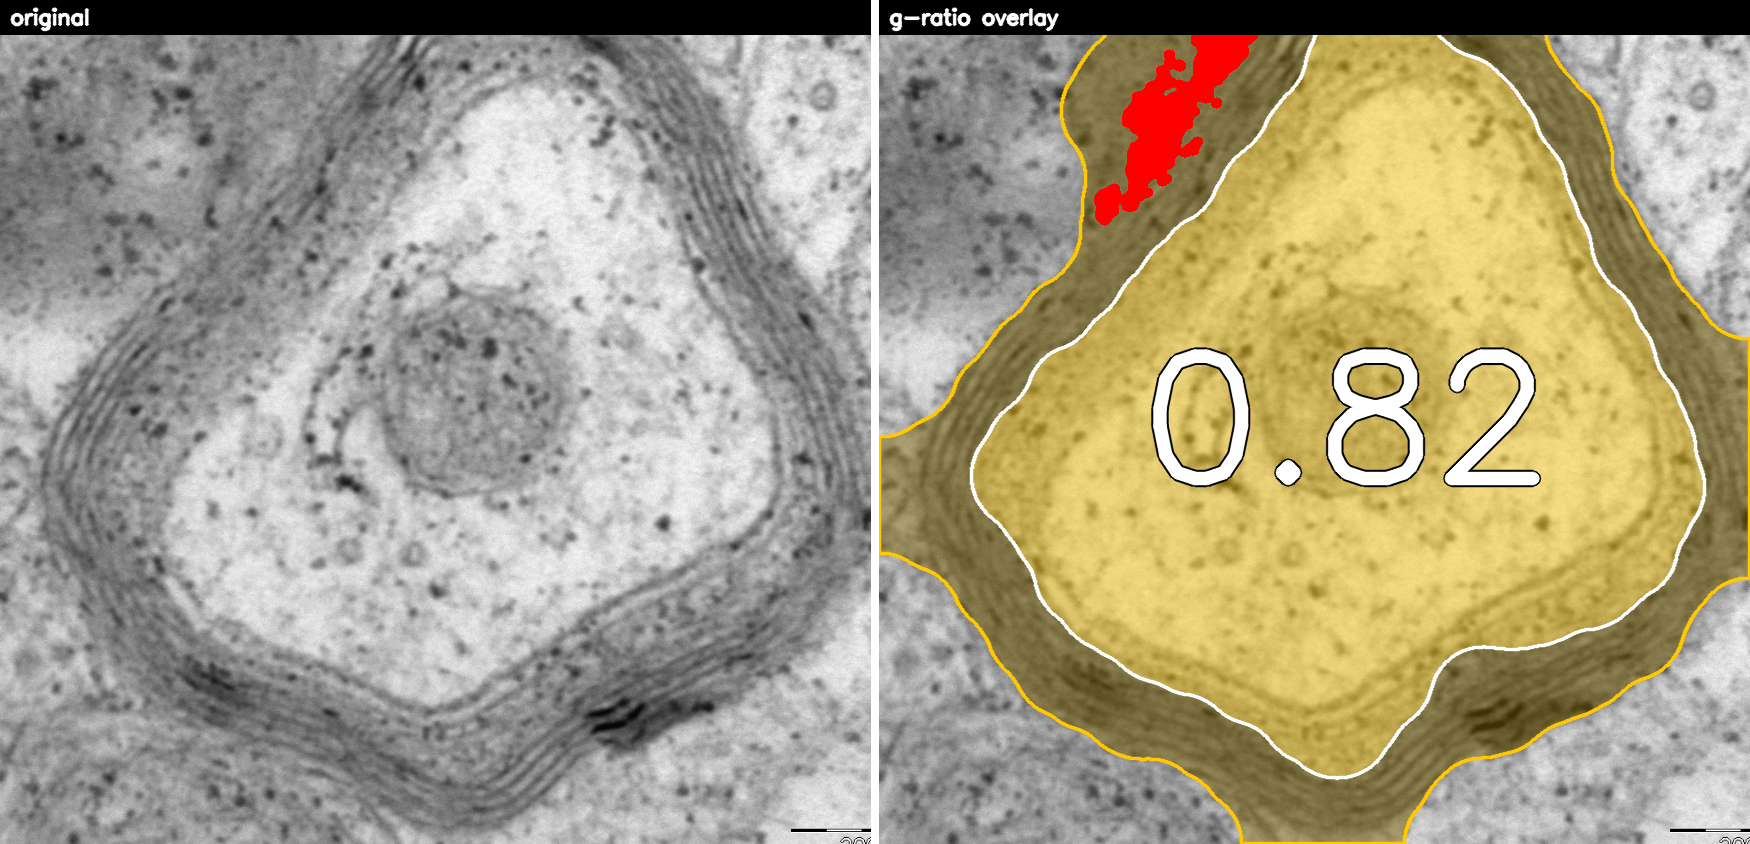
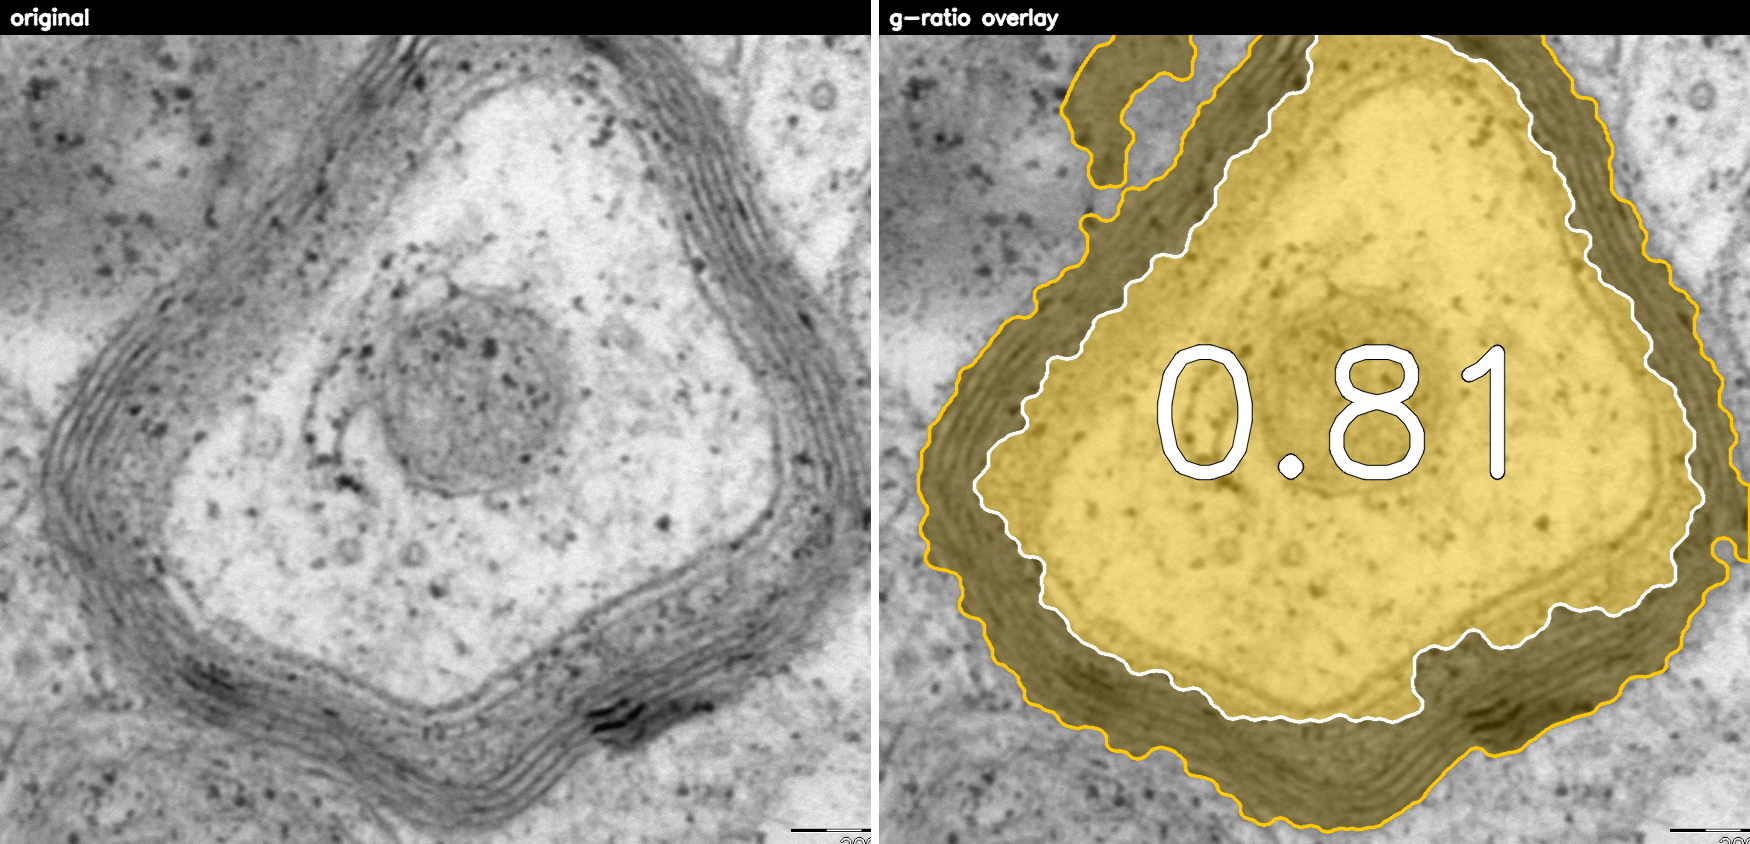
Detect edge-cropped axons; reject corner pockets; fix over-smoothed inner border
Reworks detection on the TEM samples per review feedback:
- Axon compartments are now found by sealing broken rings AND framing the image
  border, so axons cropped by the image edge (corners) are detected too, not
  just fully-enclosed ones.
- Each eroded seed is grown back to the fine myelin boundary within its own
  neighbourhood, so a broken ring cannot flood into the background.
- Raised the convex-hull solidity threshold to 0.85: real axons are highly
  convex, while non-axon corner pockets are not, which removes the false
  positives (e.g. sample_02's spurious second "axon").
- Capped the border-smoothing kernel to an absolute size so large axons
  (sample_02) are no longer distorted, fixing the inner-axon boundary.

Result on samples: s1 central+TL+BR, s2 single axon (correct), s3 four axons.
Still missing a dim bottom-left (s1) and a heavily-cropped top-right (s3).
Detection still assumes dark myelin (TEM); inverted-contrast handling is noted.

Claude-Session: https://claude.ai/code/session_01W5a7a19gkPv15EqygeEHmL

diff --git a/gratio/pipeline.py b/gratio/pipeline.py
@@ -33,14 +33,20 @@ Pipeline
 --------
 1. grayscale + bilateral filter (edge-preserving denoise)
 2. myelin mask = darkest pixels (percentile threshold); remove speckle
-3. fiber region = myelin closed enough to seal broken rings, then hole-filled;
-   isolates each axon's bright body from background even when the ring is broken
-4. axon bodies = bright bodies inside fibers passing area / solidity / brightness
-5. myelin = dark band touching the axon within a thickness cap; shared band split
-   by nearest axon
+3. seal broken rings (morphological close) and frame the image border, so axon
+   compartments -- including ones cropped by the image edge -- are isolated from
+   the background by the surrounding myelin
+4. axon bodies = compartments passing area / convex-hull solidity / brightness
+   (solidity rejects non-axon corner pockets, which are far less convex)
+5. myelin = dark band touching the axon within a thickness cap; a band shared by
+   touching axons is split by nearest axon
 6. smooth the axon body and the (axon | myelin) region into roughly-closed shapes
+   (smoothing kernel capped so large axons are not distorted)
 7. bubbles = significant bright holes in the smoothed annulus -> excluded
 8. g per axon from the area formula above
+
+Note: steps 2-4 currently assume myelin is darker than the axoplasm (true for
+these TEM samples). Inverted-contrast (e.g. SEM) data needs a polarity step.
 """
 from __future__ import annotations
 import cv2
@@ -56,11 +62,12 @@ DEFAULTS = dict(
     myelin_close=11,          # close thin inter-lamellar gaps (keeps large gaps open)
     min_axon_frac=0.004,      # min axon-body area as a fraction of the image
     max_axon_frac=0.60,       # max axon-body area as a fraction of the image
-    min_solidity=0.75,        # reject leaky / wrap-around bodies (convex-hull based)
+    min_solidity=0.85,        # reject corner pockets / leaky bodies (real axons are convex)
     bright_margin=0,          # axon-body mean intensity must exceed median(image)+margin
     touch_dilate=5,           # myelin must touch the axon within this many px
     myelin_band=0.55,         # myelin thickness cap as a fraction of axon radius
-    smooth_frac=0.33,         # border smoothing kernel as a fraction of axon radius
+    smooth_frac=0.15,         # border smoothing kernel as a fraction of axon radius
+    smooth_max_px=21,         # ...capped to this absolute size (avoid distorting big axons)
     bubble_min_frac=0.02,     # a hole counts as a bubble if >= this fraction of the axon
     bubble_min_px=250,        # ...and at least this many pixels
 )
@@ -109,33 +116,46 @@ def segment(gray: np.ndarray, **overrides) -> dict:
     myel = keep[lab].astype(np.uint8)
 
     kf = cv2.getStructuringElement(cv2.MORPH_ELLIPSE, (P['close_fiber'],) * 2)
-    fiber = binary_fill_holes(cv2.morphologyEx(myel, cv2.MORPH_CLOSE, kf).astype(bool))
+    mc = cv2.morphologyEx(myel, cv2.MORPH_CLOSE, kf)          # sealed myelin: separates axons (incl. broken central ring)
+    # treat the image border as a wall, so edge-cropped axons get enclosed too
+    framed = mc.copy()
+    framed[0, :] = framed[-1, :] = framed[:, 0] = framed[:, -1] = 1
+    enclosed = binary_fill_holes(framed.astype(bool))
     km = cv2.getStructuringElement(cv2.MORPH_ELLIPSE, (P['myelin_close'],) * 2)
-    myelin_mat = (cv2.morphologyEx(myel, cv2.MORPH_CLOSE, km) > 0) & fiber
-    bright = fiber & ~myelin_mat
+    myelin_mat = cv2.morphologyEx(myel, cv2.MORPH_CLOSE, km) > 0
 
+    # candidate axon compartments = regions separated by the sealed myelin
+    sep = enclosed & ~mc.astype(bool)
     minA, maxA = P['min_axon_frac'] * H * W, P['max_axon_frac'] * H * W
     bright_thr = np.median(gf) + P['bright_margin']
-    blab, nb = cc_label(bright)
+    slab, ns = cc_label(sep)
     axon_lbl = np.zeros((H, W), np.int32)
     cands = []
     aid = 1
-    for c in range(1, nb + 1):
-        comp = blab == c
-        A = int(comp.sum())
+    for c in range(1, ns + 1):
+        seed = slab == c
+        if seed.sum() < minA * 0.4:               # eroded seed; relaxed floor
+            continue
+        # grow the eroded seed out to the fine myelin boundary, but keep it within
+        # the seed's neighbourhood so a broken ring can't flood the background
+        terr = cv2.dilate(seed.astype(np.uint8), kf) > 0
+        glab, _ = cc_label((~myelin_mat) & terr)
+        cy0, cx0 = np.argwhere(seed).mean(0)
+        sid = glab[int(round(cy0)), int(round(cx0))]
+        body = binary_fill_holes(glab == sid) if sid > 0 else binary_fill_holes(seed)
+        A = int(body.sum())
         if not (minA <= A <= maxA):
             continue
-        cnt = max(cv2.findContours(comp.astype(np.uint8), cv2.RETR_EXTERNAL,
+        cnt = max(cv2.findContours(body.astype(np.uint8), cv2.RETR_EXTERNAL,
                                    cv2.CHAIN_APPROX_SIMPLE)[0], key=cv2.contourArea)
         hull = cv2.contourArea(cv2.convexHull(cnt))
         sol = A / hull if hull > 0 else 0.0
-        if sol < P['min_solidity'] or gf[comp].mean() < bright_thr:
+        if sol < P['min_solidity'] or gf[body].mean() < bright_thr:
             continue
-        comp = binary_fill_holes(comp)          # absorb intra-axonal granules
-        axon_lbl[comp] = aid
-        ys, xs = np.where(comp)
-        cands.append(dict(id=aid, body=comp, cx=float(xs.mean()), cy=float(ys.mean()),
-                          r=float(np.sqrt(comp.sum() / np.pi)), solidity=float(sol)))
+        ys, xs = np.where(body)
+        cy, cx, rr = float(ys.mean()), float(xs.mean()), float(np.sqrt(A / np.pi))
+        axon_lbl[body] = aid
+        cands.append(dict(id=aid, body=body, cx=cx, cy=cy, r=rr, solidity=float(sol)))
         aid += 1
 
     blank = np.zeros((H, W), np.int32)
@@ -165,7 +185,7 @@ def segment(gray: np.ndarray, **overrides) -> dict:
     axons = []
     for a in cands:
         terr = (nearest == a['id']) | (nearest == 0)   # Voronoi territory (split touching fibers)
-        k = a['r'] * P['smooth_frac']
+        k = min(a['r'] * P['smooth_frac'], P['smooth_max_px'])
         fm = _smooth(binary_fill_holes(a['body'] | (assigned == a['id'])) & terr, k)
         am = _smooth(a['body'] & terr, k) & fm
         annulus = fm & ~am
